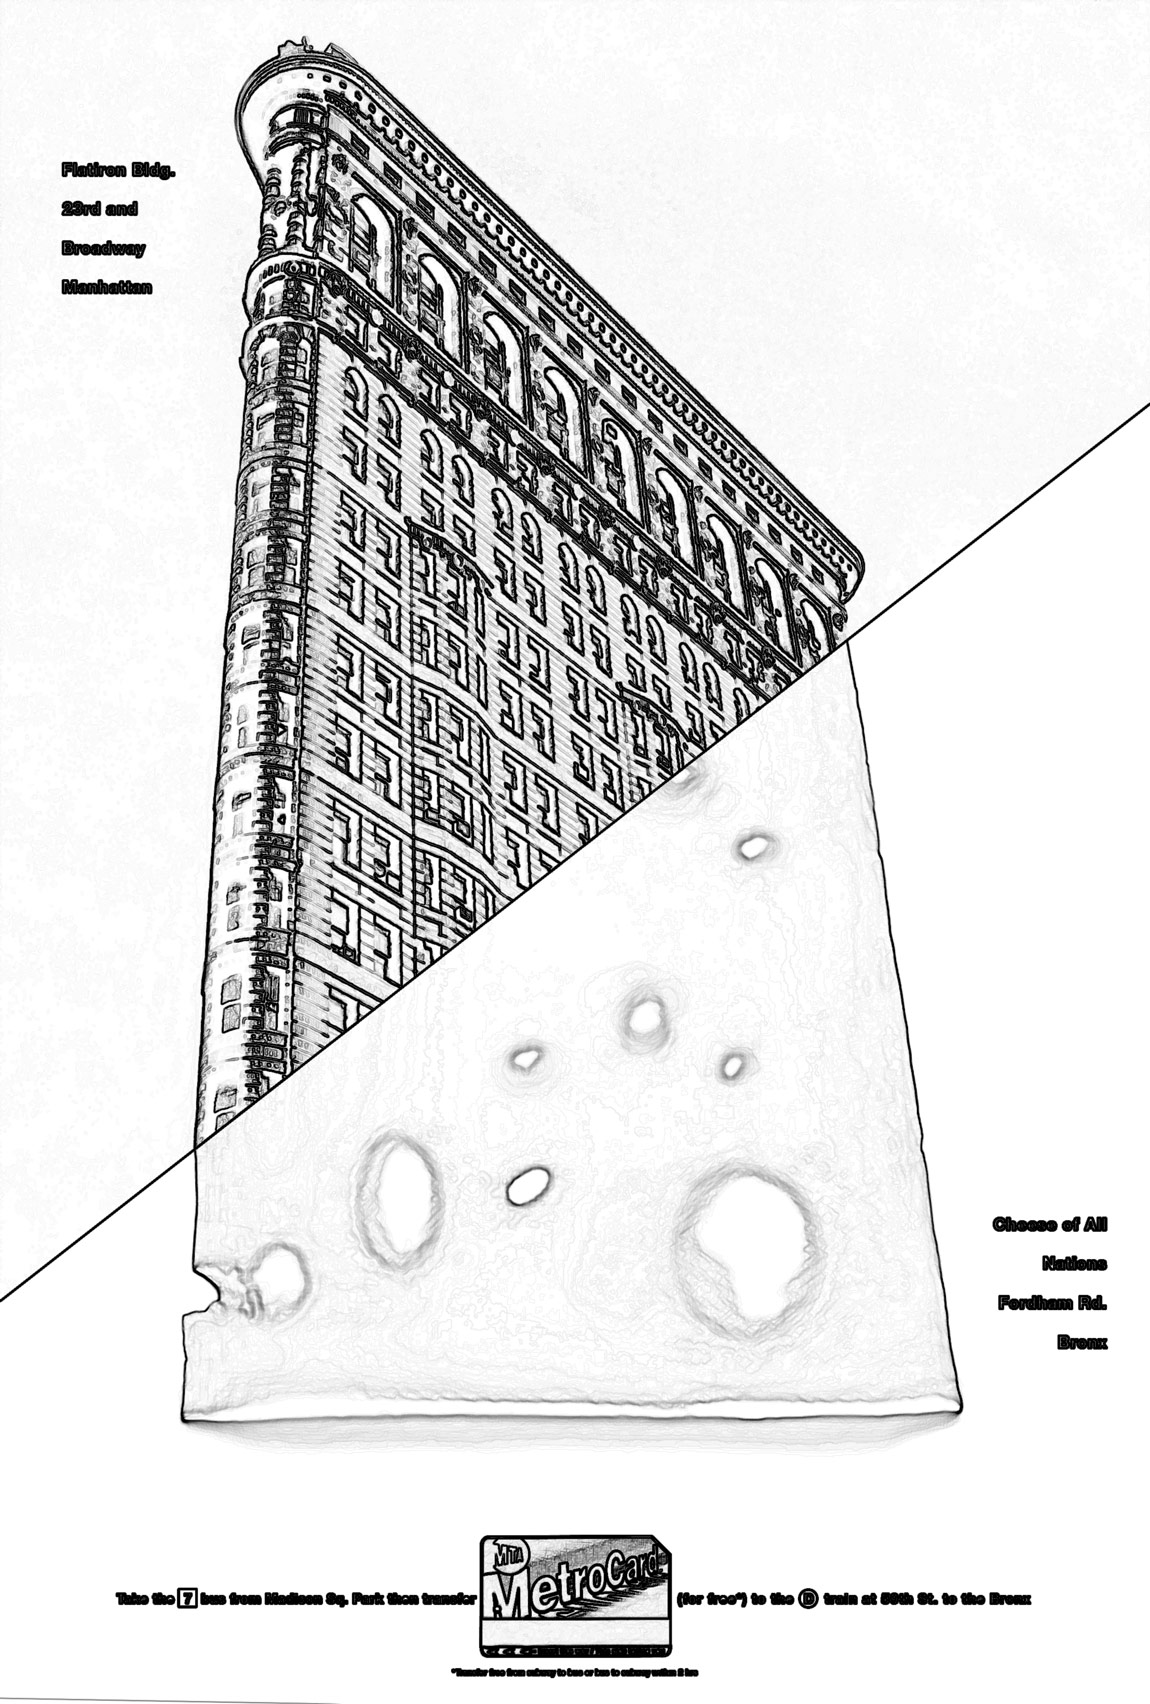
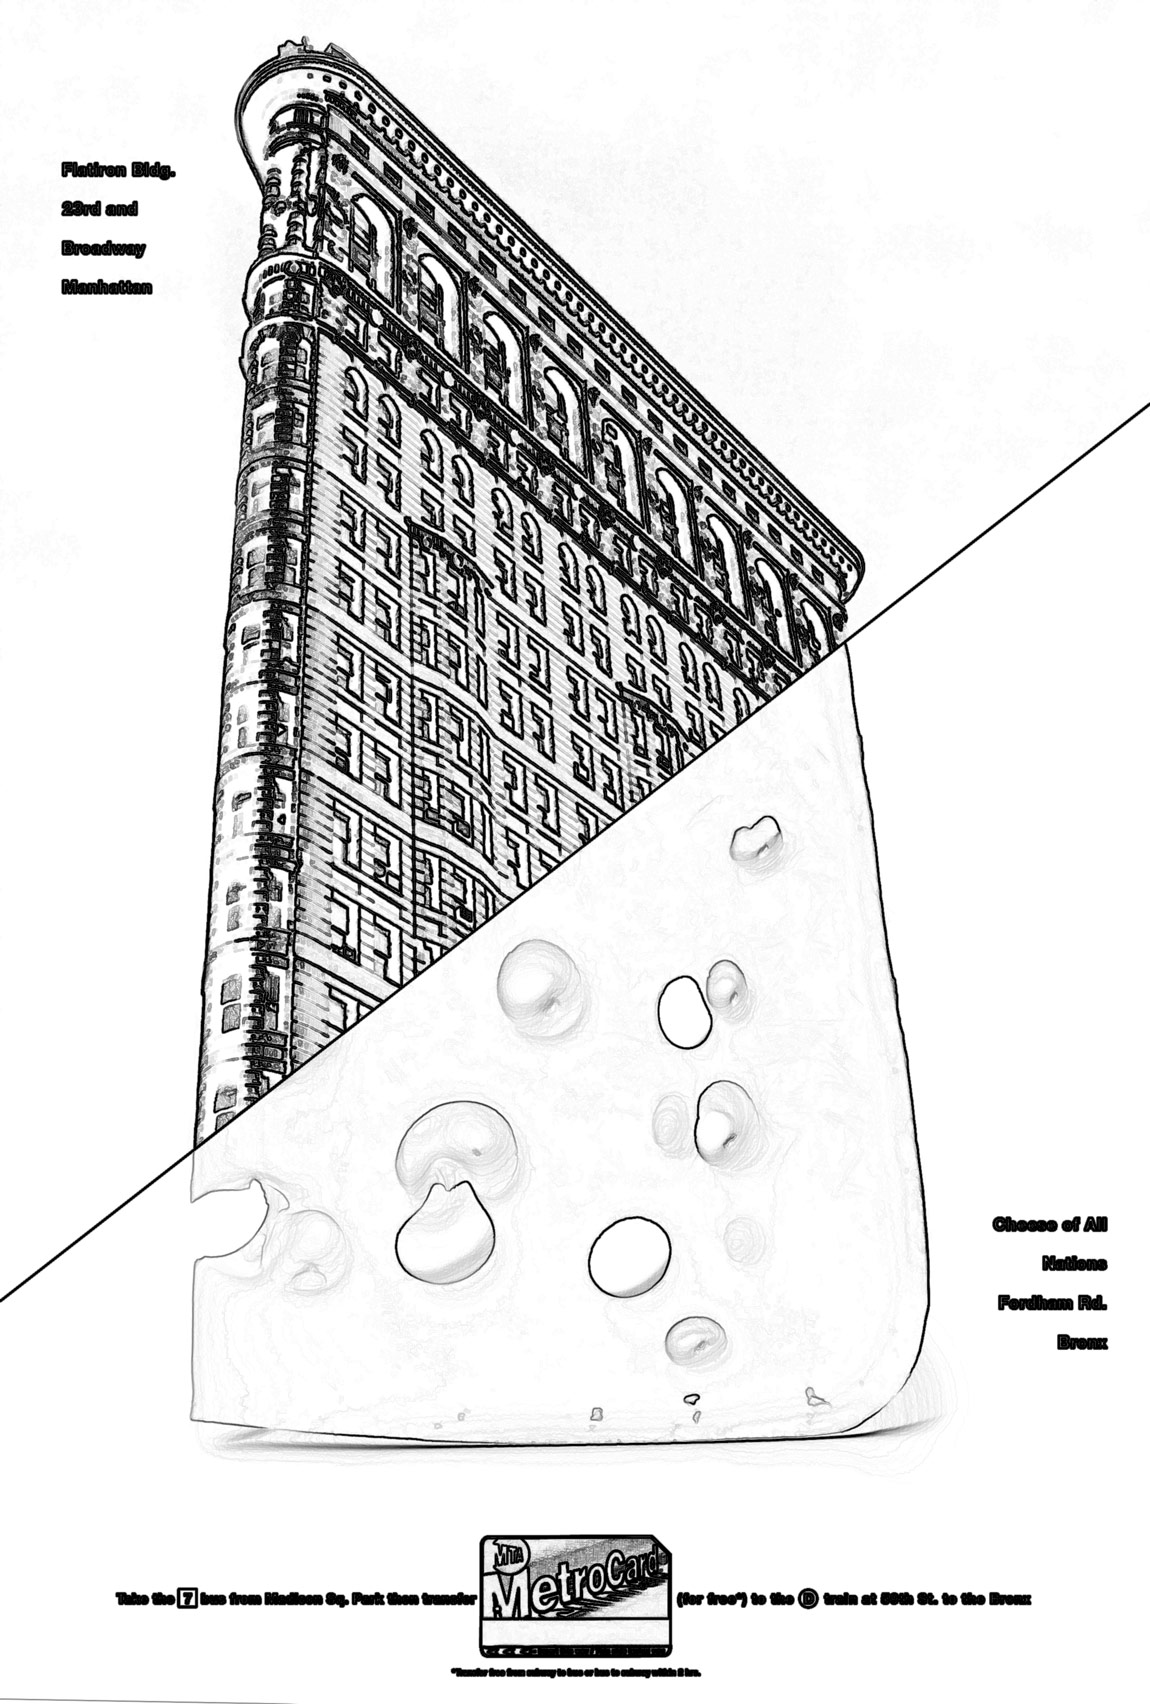
adding assets to modal slides.

diff --git a/assets/modals/modal-outdoor-mta.js b/assets/modals/modal-outdoor-mta.js
@@ -2,9 +2,9 @@ let slides = [
   {
     navID:     'slide-1',
     client:    '',
-    alt:       'Metro Card - Flatiron and Cheese of All Nations - Outdoor',
+    alt:       'Metro Card - Intrepid Sea, Air and Space Museum - Outdoor Bus Ad',
     showImage: true,
-    src:       require('assets/img/modal-slides/modal-print-mta-01c.jpg'),
+    src:       require('assets/img/modal-slides/modal-outdoor-mta-01c.jpg'),
     showVideo: false,
     videoSrc:  '',
     showText:  false,
@@ -13,9 +13,9 @@ let slides = [
   {
     navID:     'slide-2',
     client:    '',
-    alt:       'Metro Card - National Tennis Center and Tiffany\'s - Outdoor',
+    alt:       'Metro Card - Flatiron and Cheese of All Nations - Outdoor Bus Shelter',
     showImage: true,
-    src:       require('assets/img/modal-slides/modal-print-mta-02.jpg'),
+    src:       require('assets/img/modal-slides/modal-outdoor-mta-02.jpg'),
     showVideo: false,
     videoSrc:  '',
     showText:  false,
@@ -24,9 +24,9 @@ let slides = [
   {
     navID:     'slide-3',
     client:    '',
-    alt:       'Metro Card - The Pasta Shop and NYU Medical College - Outdoor',
+    alt:       'Metro Card Paramount Hotel and The Museum of Natural History - Subway Poster',
     showImage: true,
-    src:       require('assets/img/modal-slides/modal-print-mta-03.jpg'),
+    src:       require('assets/img/modal-slides/modal-outdoor-mta-03.jpg'),
     showVideo: false,
     videoSrc:  '',
     showText:  false,
@@ -35,9 +35,9 @@ let slides = [
   {
     navID:     'slide-4',
     client:    '',
-    alt:       'Metro Card Paramount Hotel and The Museum of Natural History - Outdoor',
+    alt:       '    Metro Card - National Tennis Center and Tiffany\'s - Subway Billboard',
     showImage: true,
-    src:       require('assets/img/modal-slides/modal-print-mta-04.jpg'),
+    src:       require('assets/img/modal-slides/modal-outdoor-mta-04.jpg'),
     showVideo: false,
     videoSrc:  '',
     showText:  false,
@@ -45,6 +45,17 @@ let slides = [
   },
   {
     navID:     'slide-5',
+    client:    '',
+    alt:       'Metro Card - The Pasta Shop and NYU Medical College - Subway',
+    showImage: true,
+    src:       require('assets/img/modal-slides/modal-outdoor-mta-05.jpg'),
+    showVideo: false,
+    videoSrc:  '',
+    showText:  false,
+    pText:     '',
+  },
+  {
+    navID:     'slide-6',
     client:    'MTA / Metro Card',
     alt:       '',
     showImage: false,
